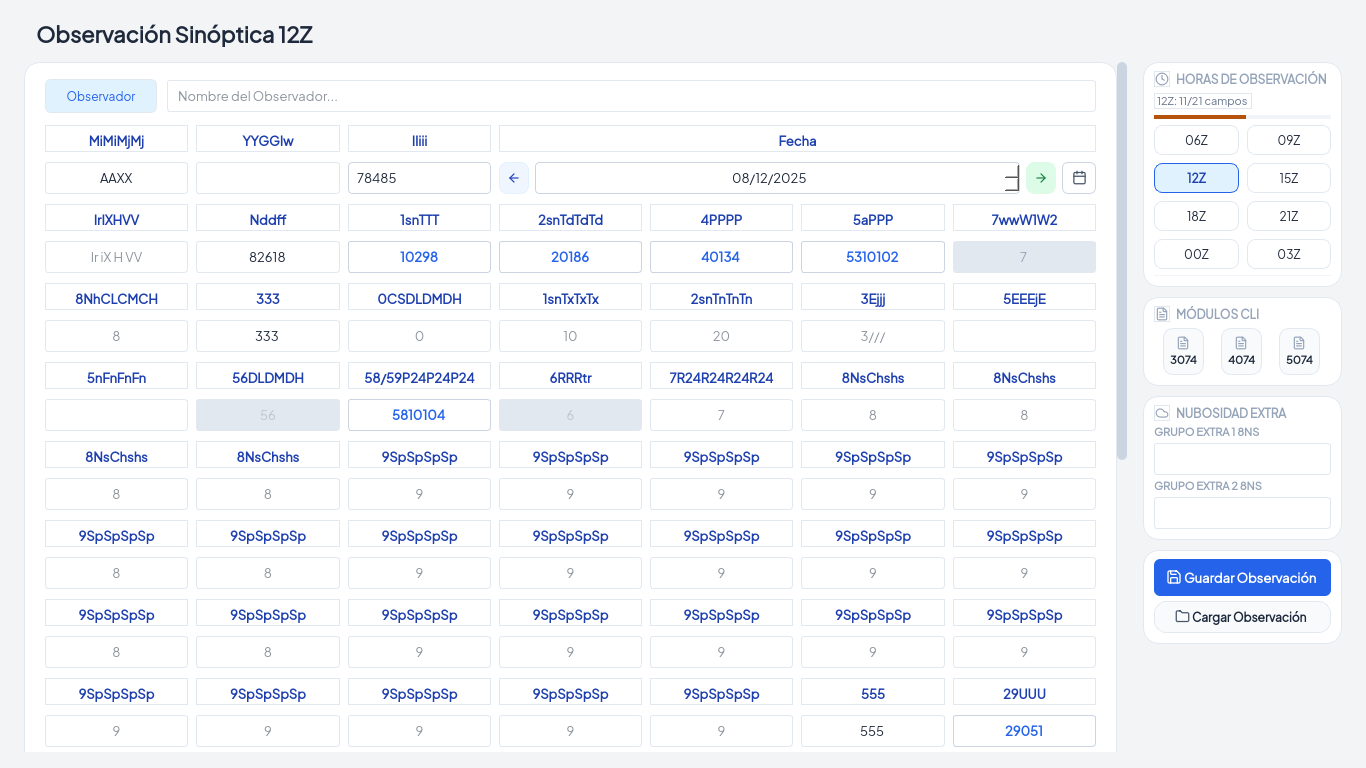
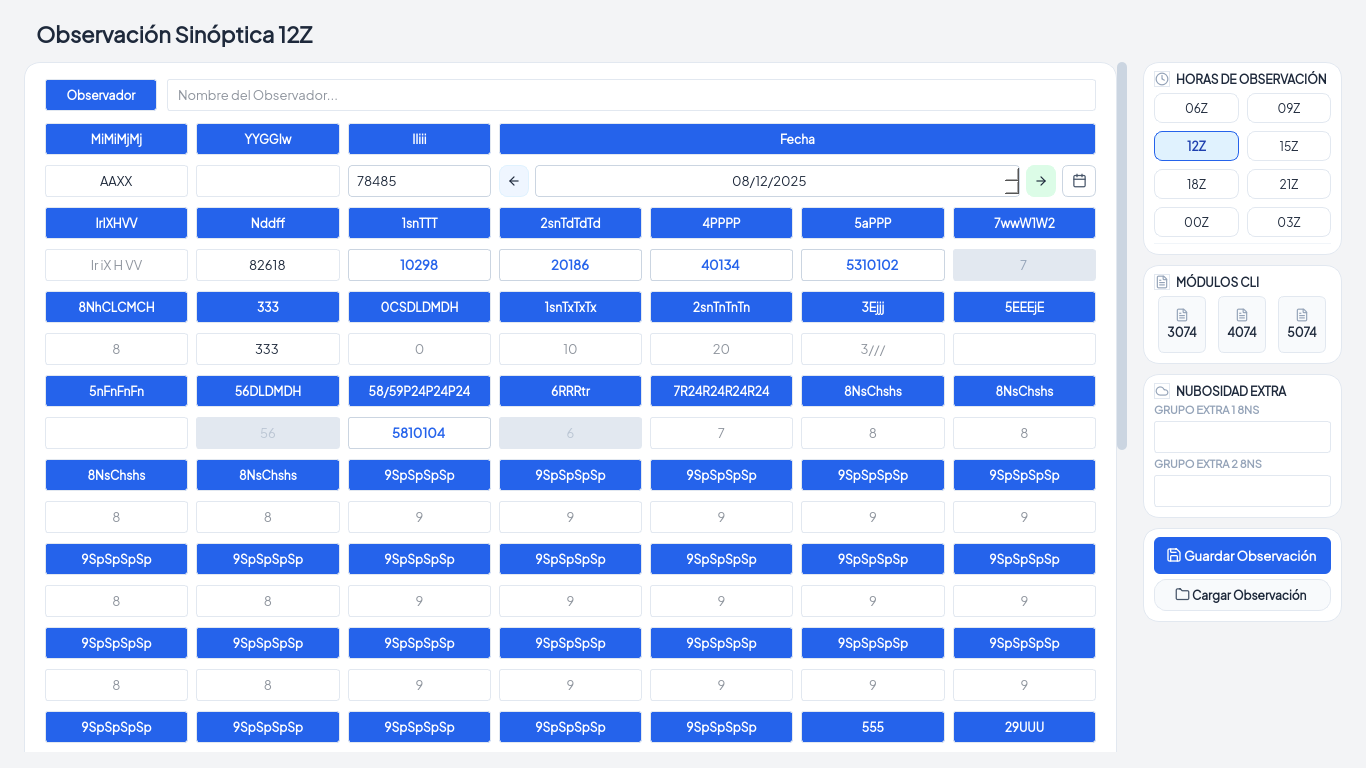
feat(synoptic): encabezados en cuadro azul y riel más legible
Correcciones del dueño sobre la interpretación anterior:

- **Encabezados con cuadro de color**, no texto suelto: fondo `$acento` con
  letra que contrasta. Aplica a `Observador`, `MiMiMjMj`, `YYGGIw`, `IIiii`,
  `Fecha` y a los grupos, igual que al botón de guardar. Antes había pintado
  sólo la letra; lo que pedía color era el cuadro.
- **Rol `sobre_acento`**: el texto sobre el acento no puede ser `banda_texto`,
  porque en claro el acento es azul oscuro y en oscuro es cian claro. Claro =
  blanco, oscuro = casi negro. Lo usan los encabezados y el botón de guardar.
- **Botones de día monocromáticos**: los dos comparten estilo y color de icono;
  se fue el azul/verde que los distinguía.
- **Contador de campos llenos eliminado**: se quitan la etiqueta y la barra de
  progreso del riel. La señal de avance queda donde corresponde, en la
  propiedad `fill` del botón de hora.
- **Títulos del riel más visibles**: `HORAS DE OBSERVACIÓN`, `MÓDULOS CLI`,
  `NUBOSIDAD EXTRA` pasan de `$tenue` a `$texto` con peso 800.
- **Botones de CLI más grandes y cuadrados**: padding 9×4, radio 6, 12 px/800.

El test que medía la barra de progreso se migra al contrato nuevo (no debe
existir), en vez de borrarse.

849 passed, EXIT=0, verificado en claro y oscuro.

diff --git a/oms_ui/pages/synoptic.py b/oms_ui/pages/synoptic.py
@@ -232,7 +232,7 @@ CARD_QSS = (
     "border-radius: 16px; }"
 )
 CARDHEAD_QSS = (
-    "color: $tenue; font-size: 12px; font-weight: 700; background: transparent;"
+    "color: $texto; font-size: 12px; font-weight: 800; background: transparent;"
     "border: none;"
 )
 MINILABEL_QSS = (
@@ -257,8 +257,8 @@ DAYNAV_FORWARD_QSS = (
 )
 CLI_BTN_QSS = (
     "QToolButton { background-color: $panel_alt; color: $texto;"
-    "border: 1px solid $borde; border-radius: 10px;"
-    "padding: 5px 2px; font-size: 11px; font-weight: 700; }"
+    "border: 1px solid $borde; border-radius: 6px;"
+    "padding: 9px 4px; font-size: 12px; font-weight: 800; }"
     "QToolButton:hover { background-color: $ambar_fondo; border-color: $ambar_fondo; }"
 )
 SECONDARY_BTN_QSS = (
@@ -304,8 +304,8 @@ HOUR_ICONS: dict[str, str] = {
 
 #: slate-600 header chips (oracle tableHeader slate bg; square corners).
 _HEADER_QSS = (
-    "background-color: transparent; color: $acento_texto; font-weight: 800;"
-    "font-size: 13px; padding: 6px 4px 2px 4px;"
+    "background-color: $acento; color: $sobre_acento; font-weight: 800;"
+    "font-size: 12px; padding: 7px 6px; border-radius: 3px;"
 )
 
 
@@ -631,18 +631,13 @@ class SynopticPage(QWidget):
             f"background: transparent; color: {paleta['texto']};"
             "font-size: 22px; font-weight: 700;"
         ))
-        chip_qss = (
-            f"background-color: {paleta['acento_suave']}; color: {paleta['acento']};"
-            f"border: 1px solid {paleta['borde']}; font-weight: 600;"
-            "font-size: 12px; padding: 8px 14px; border-radius: 6px;"
-        )
         for chip in (self.observer_label, *self._primary_headers):
-            chip.setStyleSheet(chip_qss)
+            chip.setStyleSheet(_qss(_HEADER_QSS))
         for hora in self.hour_buttons:
             self._style_hour_button(hora)
         self.save_btn.setStyleSheet(_qss(
             f"QPushButton {{ background-color: {paleta['acento']};"
-            f" color: {paleta['superficie']};"
+            f" color: {paleta['sobre_acento']};"
             "border: none; border-radius: 6px; padding: 10px 12px;"
             "font-weight: 700; font-size: 13px; }"
             f"QPushButton:hover {{ background-color: {paleta['acento_hover']}; }}"
@@ -750,6 +745,7 @@ class SynopticPage(QWidget):
         meta_row = QHBoxLayout()
         meta_row.setSpacing(10)
         self.observer_label = QLabel("Observador")
+        self.observer_label.setStyleSheet(_qss(_HEADER_QSS))
         self.observer_label.setMinimumWidth(112)
         self.observer_label.setAlignment(Qt.AlignmentFlag.AlignCenter)
         self.observer_edit = QLineEdit()
@@ -824,7 +820,7 @@ class SynopticPage(QWidget):
         self.prev_btn = QPushButton()
         self.prev_btn.setProperty("daynav", "back")
         self.prev_btn.setStyleSheet(_qss(DAYNAV_BACK_QSS))
-        self.prev_btn.setIcon(lucide_icon("arrow-left", _qss("$acento_texto"), 14))
+        self.prev_btn.setIcon(lucide_icon("arrow-left", _qss("$texto"), 14))
         self.prev_btn.setIconSize(QSize(14, 14))
         self.prev_btn.setToolTip("Guardar y cargar el día anterior")
         self.prev_btn.setFixedWidth(30)
@@ -837,7 +833,7 @@ class SynopticPage(QWidget):
         self.next_btn = QPushButton()
         self.next_btn.setProperty("daynav", "forward")
         self.next_btn.setStyleSheet(_qss(DAYNAV_FORWARD_QSS))
-        self.next_btn.setIcon(lucide_icon("arrow-right", _qss("$ok_fuerte"), 14))
+        self.next_btn.setIcon(lucide_icon("arrow-right", _qss("$texto"), 14))
         self.next_btn.setIconSize(QSize(14, 14))
         self.next_btn.setToolTip("Guardar y avanzar al día siguiente")
         self.next_btn.setFixedWidth(30)
@@ -1056,21 +1052,9 @@ class SynopticPage(QWidget):
         hours_head.addStretch(1)
         hours_l.addLayout(hours_head)
 
-        progress_row = QHBoxLayout()
-        progress_row.setSpacing(6)
-        self.progress_label = QLabel("0/21 campos")
-        self.progress_label.setStyleSheet(_qss(
-            "color: $suave_alt; font-size: 11px; font-weight: 600;"
-            "background: transparent;"
-        ))
-        progress_row.addWidget(self.progress_label)
-        progress_row.addStretch(1)
-        hours_l.addLayout(progress_row)
-        self.progress = QProgressBar()
-        self.progress.setTextVisible(False)
-        self.progress.setFixedHeight(4)
-        self.progress.setProperty("fillcls", "empty")
-        hours_l.addWidget(self.progress)
+        # El contador de campos llenos y su barra se quitaron: el dueño los
+        # considera innecesarios (la hora activa ya dice cuánto falta en el
+        # propio formulario).
 
         hours_grid = QGridLayout()
         hours_grid.setHorizontalSpacing(8)
@@ -1803,18 +1787,8 @@ class SynopticPage(QWidget):
         active = synoptic_service.hour_completion(
             self.observations.get(self.active_hour) or {}, self.active_hour
         )
-        self.progress.setRange(0, active["total"])
-        self.progress.setValue(int(active["done"]))
-        fillcls = (
-            "empty" if active["done"] == 0
-            else "ok" if active["ratio"] == 1.0
-            else "part"
-        )
-        chunk = {"empty": "$borde", "part": "$ambar", "ok": "$ok"}[fillcls]
-        self.progress.setStyleSheet(_qss(_progress_qss(chunk)))
-        self.progress_label.setText(
-            f"{self.active_hour}: {active['done']}/{active['total']} campos"
-        )
+        if active["ratio"] == 1.0:
+            self.hour_buttons[self.active_hour].setProperty("fill", "ok")
 
     def _update_readouts(self) -> None:
         derived = self._derive_active()

diff --git a/tests/test_f4_ui.py b/tests/test_f4_ui.py
@@ -127,15 +127,16 @@ def test_hour_selector_8_buttons_with_completion_tooltips(page):
     assert page.hour_buttons["06Z"].property("fill") == "part"
 
 
-def test_active_hour_progress_bar(page):
-    assert page.active_hour == "06Z"
-    page.field("ts").setText("23.2")
-    assert page.progress.maximum() == 21
-    assert page.progress.value() == 1
-    assert "1/21" in page.progress_label.text()
-    page.select_hour("09Z")
-    assert page.progress.maximum() == 17  # odd hours have the honest denominator
+def test_no_hay_contador_de_campos_llenos(page):
+    """El dueño quitó el contador y su barra: eran ruido en el riel.
 
+    Lo que queda es la señal en el propio botón de hora (la propiedad `fill`),
+    que es la que colorea el selector.
+    """
+    assert not hasattr(page, "progress_label")
+    assert not hasattr(page, "progress")
+    page.field("ts").setText("23.2")
+    assert page.hour_buttons[page.active_hour].property("fill") in ("part", "ok")
 
 def test_alt_digits_switch_the_active_hour(page):
     for index, hora in enumerate(synoptic_service.HOURS, start=1):

diff --git a/oms_ui/theme.py b/oms_ui/theme.py
@@ -55,6 +55,7 @@ PALETTE_CLARO: dict[str, str] = {
     "acento_suave": "#e0f2fe",
     "acento_deshabilitado": "#93c5fd",
     "acento_texto": "#1e40af",
+    "sobre_acento": "#ffffff",
     "acento_fondo": "#eff6ff",
     "error": "#ef4444",
     "error_fuerte": "#dc2626",
@@ -101,6 +102,7 @@ PALETTE_OSCURO: dict[str, str] = {
     "acento_suave": "#123241",
     "acento_deshabilitado": "#1c4b5e",
     "acento_texto": "#a5f3fc",
+    "sobre_acento": "#08141c",
     "acento_fondo": "#0f2338",
     "error": "#f87171",
     "error_fuerte": "#ef4444",
